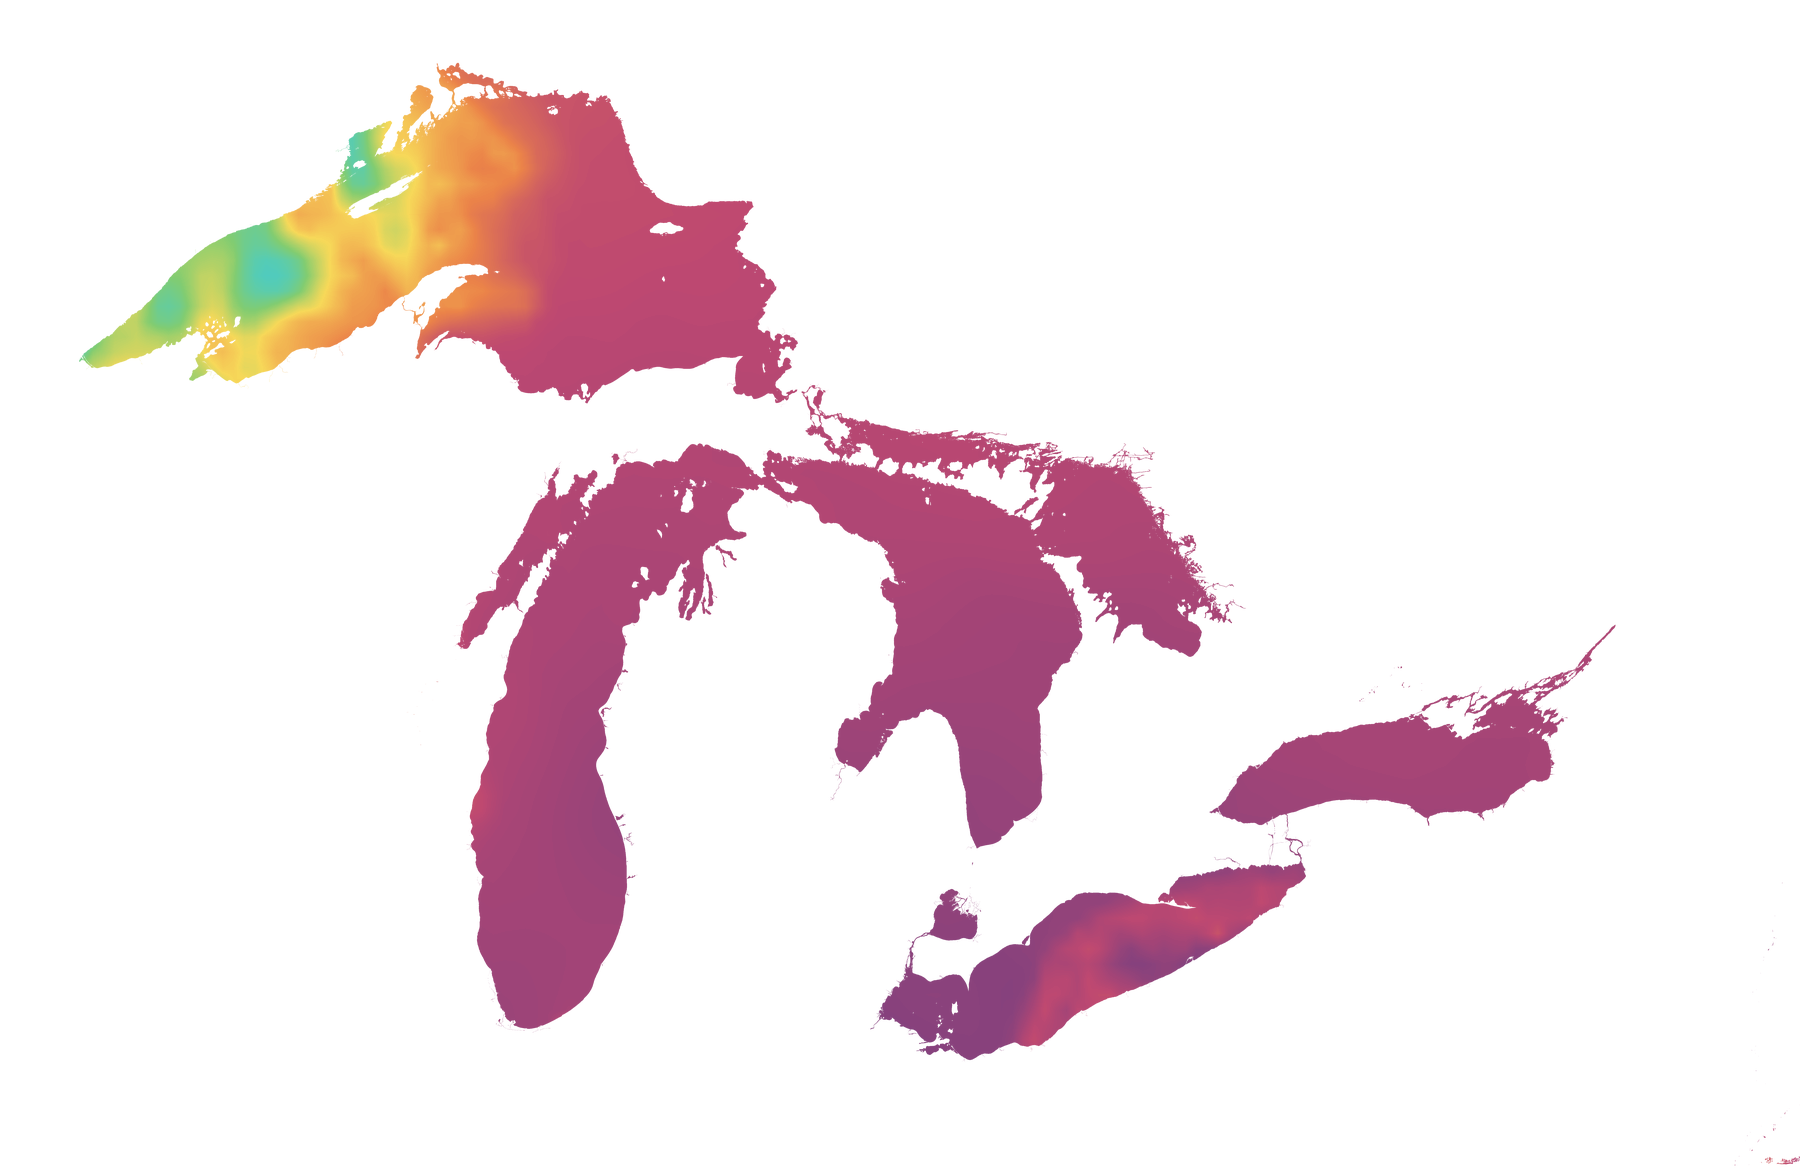
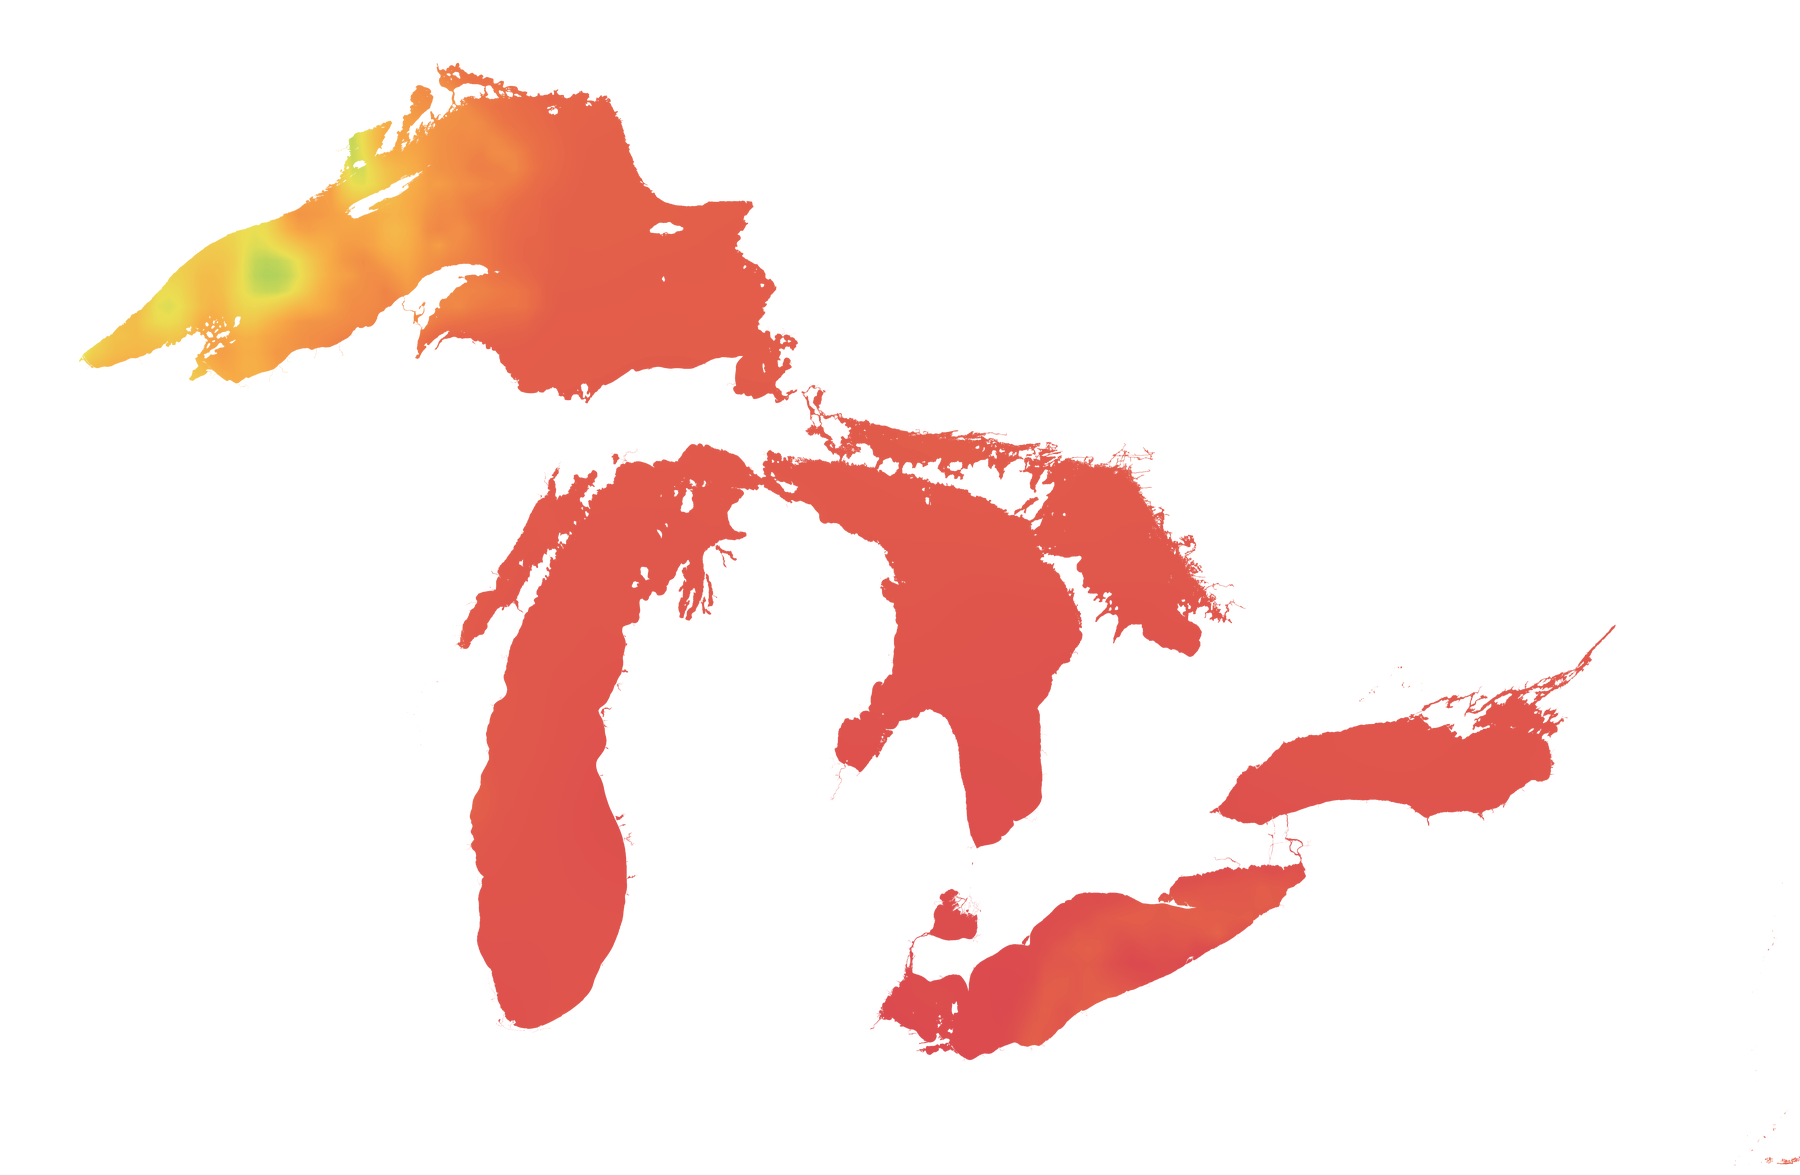
Solar: fixed UV-index-style absolute scale 0-1000 W/m2
Replace drifting historical-record gradient with fixed night-blue to
violet-extreme stops so flux intensity reads at a glance. Broadband
flux only; EPA UV Index remains a separate product.

diff --git a/scripts/build_solar_radiation.py b/scripts/build_solar_radiation.py
@@ -39,9 +39,9 @@ from geospatial_utils import (RENDER_VERSION, REPO_ROOT, SITE_DIR,
                               read_state, resample_gridded, save_png,
                               source_token, stage_dir, utcnow_iso,
                               write_metadata, write_state)
-from gradient_scale import (build_linear_stops, draw_scale_legend,
-                            fmt_val, load_record, record_tick_labels,
-                            render_rgba, save_record, update_record)
+from gradient_scale import (SOLAR_FLUX_MAX, SOLAR_FLUX_STOPS,
+                             SOLAR_FLUX_TICKS, draw_scale_legend, load_record,
+                             render_rgba, save_record, update_record)
 
 PRODUCT = "solar_radiation"
 CONFIG = json.load(open(os.path.join(REPO_ROOT, "config", f"{PRODUCT}.json")))
@@ -217,7 +217,10 @@ def _build(base, datestr, cycle, source_id):
     rec, res = update_record(rec, res, sample)
     if not (lo <= rec["hist_min"] and rec["hist_max"] <= hi):
         raise ValueError("record extrema outside source valid range")
-    stops = build_linear_stops(rec["hist_min"], rec["hist_max"])
+    # Fixed absolute UV-index-style scale (not the drifting historical
+    # record): the same flux always shows the same color, so intensity
+    # reads at a glance. Record stats are still tracked below for QC.
+    stops = SOLAR_FLUX_STOPS
     rgba = render_rgba(field, stops, bounds["overlay_alpha"])
     rgba = apply_shoreline_mask(rgba)  # water-only product
     save_png(rgba, os.path.join(stage_prod, "current.png"))
@@ -236,7 +239,7 @@ def _build(base, datestr, cycle, source_id):
 
     p = rec["percentiles"]
     unit = CONFIG["display_units"]
-    labels = record_tick_labels(rec)
+    labels = SOLAR_FLUX_TICKS
     night = cur_max < 5.0
     subtitle = (f"Downward shortwave flux ({unit}, GFS f000 analysis)  |  "
                 f"{data_time_utc}" + ("  |  nighttime" if night else ""))
@@ -247,13 +250,15 @@ def _build(base, datestr, cycle, source_id):
         f"Processed {now_det_str()}",
         note="Zero is valid nighttime data (deep blue), not missing.")
     scale_html = (f"Surface downward shortwave solar radiation ({unit}, "
-                  f"GFS f000 analysis step), balanced linear "
-                  f"scale: <b>LOWEST {fmt_val(rec['hist_min'])}</b> (dark blue) → "
-                  f"common {fmt_val(p['p50'])} → "
-                  f"<b>HIGHEST+ {fmt_val(rec['hist_max'])}</b> (deep purple). "
-                  f"Values shown exactly as observed; night reads zero; "
-                  f"clouds reduce values quantitatively. Broadband flux, "
-                  f"not the UV index.")
+                  f"GFS f000 analysis step), FIXED absolute scale 0&ndash;1000+: "
+                  f"night <b>0</b> (deep blue) &rarr; low <b>150</b> (green) &rarr; "
+                  f"moderate <b>300&ndash;450</b> (yellow/amber) &rarr; high "
+                  f"<b>600</b> (orange-red) &rarr; very high <b>750</b> (red) &rarr; "
+                  f"extreme <b>1000+</b> (violet). <b>LOWEST 0</b>, "
+                  f"<b>HIGHEST+ 1000+</b>. Same flux always shows the same "
+                  f"color. Values shown exactly as observed; night reads zero; "
+                  f"clouds reduce values quantitatively. Broadband flux display "
+                  f"bands &mdash; not the EPA UV Index (separate product).")
     meta = base_metadata(
         PRODUCT, CONFIG["title"], CONFIG["freshness_label"],
         CONFIG["source_name"], CONFIG["source_url"], CONFIG["variable"],
@@ -262,7 +267,7 @@ def _build(base, datestr, cycle, source_id):
         units=f"{unit} (display); source W m^-2",
         source_resolution="~13 km GFS Gaussian grid (3072x1536), "
                           "bilinear-resampled to canvas",
-        color_min=rec["hist_min"], color_max=rec["hist_max"], color_units=unit,
+        color_min=0.0, color_max=SOLAR_FLUX_MAX, color_units=unit,
         missing_data_treatment=("only [0,1400] admitted; land outside the "
                                 "NOAA shoreline and missing analysis "
                                 "transparent; never interpolated across "

diff --git a/scripts/gradient_scale.py b/scripts/gradient_scale.py
@@ -143,8 +143,7 @@ def build_linear_stops(vmin, vmax, family=None, n=LINEAR_N):
     return stops
 
 
-APPLE_TEMP_STOPS = [  # (degF, rgb) fixed Apple-Weather-like spectrum
-    (-40.0, (108, 55, 150)),   # purple extreme cold
+APPLE_TEMP_STOPS = [  # (degF, rgb) fixed Apple-Weather-like spectrum    (-40.0, (108, 55, 150)),   # purple extreme cold
     (-20.0, (65, 85, 205)),
     (0.0, (35, 120, 225)),     # blue
     (20.0, (30, 165, 220)),
@@ -157,6 +156,34 @@ APPLE_TEMP_STOPS = [  # (degF, rgb) fixed Apple-Weather-like spectrum
     (100.0, (220, 50, 30)),
     (115.0, (195, 25, 45)),
     (130.0, (168, 18, 40)),    # deep red extreme heat
+]
+
+
+SOLAR_FLUX_STOPS = [  # (W/m^2, rgb) fixed absolute scale, UV-index-style
+    # progression (green -> yellow -> orange -> red -> magenta/violet) so
+    # flux intensity reads at a glance. Display bands only: this is
+    # BROADBAND shortwave flux, not the EPA UV Index (separate product).
+    (0.0, (13, 42, 120)),     # night: deep blue (valid zero, not missing)
+    (50.0, (25, 110, 220)),   # dawn/dusk blue
+    (150.0, (35, 170, 70)),   # low: green
+    (300.0, (230, 215, 40)),  # moderate: yellow
+    (450.0, (245, 150, 25)),  # amber/orange
+    (600.0, (230, 80, 25)),   # high: orange-red
+    (750.0, (210, 30, 35)),   # very high: red
+    (900.0, (195, 25, 130)),  # magenta
+    (1000.0, (110, 15, 130)),  # extreme: violet (1000+ clamps here)
+]
+SOLAR_FLUX_MAX = 1000.0
+
+
+SOLAR_FLUX_TICKS = [  # (value, label) drawn at true scale positions
+    (0.0, "0 Night"),
+    (150.0, "150 Low"),
+    (300.0, "300"),
+    (450.0, "450 Mod"),
+    (600.0, "600 High"),
+    (750.0, "750 V.High"),
+    (1000.0, "1000+ Extr"),
 ]
 
 

diff --git a/README.md b/README.md
@@ -15,7 +15,7 @@ sources, plus **sixteen live game-fish distribution gradients** (see below).
 | 🍂 Live Leaf Color | NASA MODIS Aqua MYD13A1/MYD09A1 global 500 m via Planetary Computer (NDVI trajectory + reflectance + NDSI snow) → circular phenology phase | LATEST AVAILABLE COMPOSITE |
 | 🦠 Live Chlorophyll | NOAA CoastWatch S-NPP VIIRS chlorophyll-a, Science Quality, Global 4 km, Daily (ERDDAP); newest-valid 7-day mosaic; balanced linear scale, water-only | LATEST AVAILABLE (daily composite) |
 | 🌫 Live Water Clarity | NOAA CoastWatch S-NPP VIIRS Kd(PAR) diffuse attenuation, NRT, Global 4 km, Daily (ERDDAP); newest-valid 7-day mosaic; balanced linear scale, water-only | LATEST AVAILABLE (daily composite) |
-| ☀ Live Solar Radiation | NOAA/NCEP HRRR 3 km DSWRF surface analysis (broadband W/m², not UV index), hourly cycles; balanced linear scale, water-only | LIVE / CURRENT MODEL (analysis), hourly cycles |
+| ☀ Live Solar Radiation | NOAA/NCEP GFS DSWRF surface analysis (broadband W/m², not UV index), hourly cycles; fixed absolute UV-index-style scale, water-only | LIVE / CURRENT MODEL (analysis), hourly cycles |
 | 🌡 Live Air Temperature | NOAA/NCEP HRRR 3 km 2 m temperature analysis, hourly cycles; FIXED Apple-style absolute spectrum (-40..130 °F), water-only | LIVE / CURRENT MODEL (analysis), hourly cycles |
 | ❄ Live Snow Coverage | NOAA/NCEP HRRR 3 km SNOD/SNOWC snow analysis (ground snow gate), hourly cycles, Michigan-only | LIVE / CURRENT MODEL (analysis), hourly cycles |
 

diff --git a/DATA_SOURCES.md b/DATA_SOURCES.md
@@ -282,8 +282,10 @@ from the full-precision NOAA vector mask plus edge RGB bleed, in one image.
   stripe-shaped holes; a flood-fill interior-hole guard over watermask
   water fails the run instead of shipping stripes (verified 0 holes,
   2026-09-23). Nighttime zero is VALID data (deep blue), never NoData.
-  Balanced LINEAR scale over the observed record (broadband flux shown
-  exactly as observed — this is NOT the UV index).
+  FIXED absolute UV-index-style scale 0–1000+ W/m² (night deep blue →
+  green → yellow → orange → red → magenta → violet extreme; same flux
+  always shows the same color; broadband flux shown exactly as observed —
+  this is NOT the EPA UV Index, which is a separate product).
 - **Air temperature product:** HRRR CONUS `wrfsfcf00` analysis via NOMADS
   (direct HTTPS + `.idx` byte ranges, TMP2m only). Variable `TMP` 2 m
   above ground (K → °F). Lambert 1799×1059, per-cell WGS84 via ecCodes.
